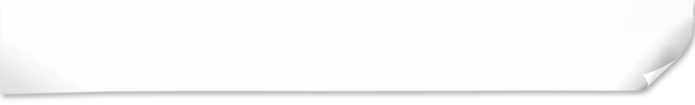
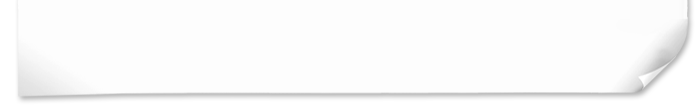
debug路由

Changed region(s): [[0.0, 0.6857, 0.9065, 0.9714], [0.9065, 0.0, 1.0, 0.8286]]

diff --git a/style/public.min.css b/style/public.min.css
@@ -1,1 +1,1 @@
-html{background-color:#5a93cf}html body{width:100%}html body .container{width:1045px;margin:0 auto;padding-top:68px;position:relative;overflow:hidden}html body .container .title{width:349px;height:391px;position:absolute;top:27px;left:-60px;background:url(../images/left_title.png);z-index:99}html body .container .title>h2{font-size:23.7px;color:#5a93d0;position:absolute;top:189px;left:74px}html body .container .title>h4{font-size:19px;color:#fff;position:absolute;left:133px;top:225px}html body .container .menu{position:absolute;background:url(../images/right_menu.png);width:359px;height:441px;top:130px;right:-60px;z-index:99}html body .container .flower{width:129px;height:132px;background:url(../images/flower.png);position:absolute;left:27px;top:380px}html body .container .block{width:213px;height:201px;background:url(../images/block.png);position:absolute;left:4px;top:610px;z-index:99}html body .container .nav{width:822px;height:59px;margin:0 auto;background:url(../images/nav_bg2.png) center;background-size:cover}html body .container .nav ul{width:100%;overflow:hidden}html body .container .nav ul li{float:left}html body .container .nav ul li>a{display:block;height:49px;line-height:49px;font-size:14px;color:#261501;padding:0 42px}html body .container .nav ul li:hover>a,html body .container .nav ul .active>a{font-weight:bolder;color:#5a93cf}html body .container .header{width:695px;height:89px;margin:0 auto;margin-top:70px;background:url(../images/header_bg.png) center;background-size:cover}html body .container .main{padding:0 86px;width:695px;margin:0 auto;background:url(../images/main_bg.png) center;position:relative}html body .container .main .breadcrumb{position:absolute;top:-108px;left:56px}html body .container .main .breadcrumb li{float:left;font-size:16px;color:#f2f2f2}html body .container .main .breadcrumb li a{font-size:16px;color:#f2f2f2;display:inline-block}html body .container .main .breadcrumb li a:hover{color:#ff6600}html body .container .main>h1{color:#5a93cf;font-size:36px;text-align:center;padding-bottom:20px}html body .container .main>h2{font-size:24px;text-align:center}html body .container .main>h3{font-size:16px;padding-bottom:13px}html body .container .main .dail{font-size:16px;line-height:28px;text-indent:2em;padding-bottom:13px}html body .container .main .img_box{text-align:center}html body .container .main .homelist{margin-top:80px}html body .container .main .homelist li a{font-size:24px;color:#111111;line-height:65px}html body .container .main .slist{margin-left:2em}html body .container .main .slist li a{font-size:20px;color:#C66209;line-height:32px}html body .container .main .slist li a:hover{text-decoration:underline}html body .container .main .footer_action{display:none}html body .container .footer{width:695px;height:105px;margin:0 auto;background:url(../images/footer_bg.png) center;margin-bottom:60px;position:relative;text-align:center}html body .container .footer .den{width:291px;height:243px;background:url(../images/den.png);position:absolute;top:-80px;right:-142px}html body .container .footer .action{margin-top:30px;display:inline-block}html body .container .footer .action li{float:left;background-color:#5a93cf;margin:0 15px;border-radius:0px 20px}html body .container .footer .action li a{display:block;width:80px;font-size:14px;line-height:26px;color:#f2f2f2}html body .container .footer .action li:hover{background-color:#C66209}html body .ball{position:absolute;top:635px;right:198px;margin:auto;width:50px;height:50px;background:#1f79d7;opacity:0.5;border-radius:50%;cursor:pointer;background-image:url(../images/action.png);background-position:center;background-size:55%;background-repeat:no-repeat;z-index:999}html body .ball .b1,html body .ball .b2,html body .ball .b3,html body .ball .b4{position:absolute;width:50px;height:50px;background:#c8e7f9;border:1px solid #c8e7f9;opacity:0;border-radius:50%;cursor:pointer;text-align:center}html body .ball .b1 img,html body .ball .b2 img,html body .ball .b3 img,html body .ball .b4 img{display:inline-block;width:20px;margin-top:10px}html body .ball .b1 p,html body .ball .b2 p,html body .ball .b3 p,html body .ball .b4 p{line-height:14px;font-size:12px;color:#222}html .pop{position:fixed;top:-1500px;left:0;right:0;bottom:0;margin:auto;padding:15px;width:400px;height:500px;border:1px solid #ccc;border-radius:10px;background-color:white}html .pop .pop-header{border-bottom:1px solid #5a93cf}html .pop .pop-header h3{line-height:35px}html .pop .pop-header span{position:absolute;top:0;bottom:0;right:20px;margin:auto;font-size:18px;cursor:pointer;margin-top:20px;color:#666}html .pop .pop-header span:hover{color:red}html .pop .pop-main .note ul{margin-top:10px;margin-bottom:10px;height:300px;overflow-y:scroll}html .pop .pop-main .note li{padding-top:10px;padding-bottom:10px;border-bottom:1px solid #ccc;font-size:12px;cursor:pointer}html .pop .pop-main .note li p{word-wrap:break-word;word-break:normal;overflow:hidden}html .pop .pop-main .note li p span{float:left;display:block}html .pop .pop-main .note li p span:first-child{text-indent:2em;width:300px}html .pop .pop-main .note li p span:last-child{width:50px;text-align:center;color:#5a93cf}html .pop .pop-main .note li p span:last-child:hover{color:red}html .pop .pop-main .note li div{overflow:hidden}html .pop .pop-main .note li div span{float:right;margin-right:20px}html .pop .pop-main .note li:hover{background-color:#dededd}html .pop .pop-main .note textarea{width:368px;height:80px;padding:10px}html .pop .pop-main .note button{border:none;float:right;padding:5px 15px;background-color:#5a93cf;cursor:pointer;border-radius:5px;color:white;font-size:12px}html .pop .pop-main .note button:hover{background-color:#2880dd}html .pop .pop-main .shuqian ul{margin-top:10px;margin-bottom:10px;height:420px;overflow-y:scroll}html .pop .pop-main .shuqian li{padding-top:10px;padding-bottom:10px;border-bottom:1px solid #ccc;font-size:12px;cursor:pointer}html .pop .pop-main .shuqian li p{word-wrap:break-word;word-break:normal;overflow:hidden}html .pop .pop-main .shuqian li p span{float:left;display:block}html .pop .pop-main .shuqian li p span:first-child{text-indent:2em;width:300px}html .pop .pop-main .shuqian li p span:last-child{width:50px;text-align:center;color:#5a93cf}html .pop .pop-main .shuqian li p span:last-child:hover{color:red}html .pop .pop-main .shuqian li p a:hover{color:#ffba00}html .pop .pop-main .shuqian li:hover{background-color:#dededd}html .pop .pop-main .pregress{padding-top:20px}html .pop .pop-main .pregress p{font-size:14px;line-height:40px}html .pop .pop-main .pregress p a{display:inline-block;color:#a31313}html .pop .pop-main .pregress p a:hover{color:#a50101}
+html{background-color:#5a93cf}html body{width:100%}html body .container{width:1045px;margin:0 auto;padding-top:68px;position:relative;overflow:hidden}html body .container .title{width:349px;height:391px;position:absolute;top:27px;left:-60px;background:url(../images/left_title.png);z-index:99}html body .container .title>h2{font-size:23.7px;color:#5a93d0;position:absolute;top:189px;left:74px}html body .container .title>h4{font-size:19px;color:#fff;position:absolute;left:133px;top:225px}html body .container .menu{position:absolute;background:url(../images/right_menu.png);width:359px;height:441px;top:130px;right:-60px;z-index:99}html body .container .flower{width:129px;height:132px;background:url(../images/flower.png);position:absolute;left:27px;top:380px}html body .container .block{width:213px;height:201px;background:url(../images/block.png);position:absolute;left:4px;top:610px;z-index:99}html body .container .nav{width:822px;height:59px;margin:0 auto;background:url(../images/nav_bg2.png) center;background-size:cover}html body .container .nav ul{width:100%;overflow:hidden}html body .container .nav ul li{float:left}html body .container .nav ul li>a{display:block;height:49px;line-height:49px;font-size:14px;color:#261501;padding:0 42px}html body .container .nav ul li:hover>a,html body .container .nav ul .active>a{font-weight:bolder;color:#5a93cf}html body .container .header{width:695px;height:89px;margin:0 auto;margin-top:70px;background:url(../images/header_bg.png) center;background-size:cover}html body .container .main{padding:0 86px;width:695px;margin:0 auto;background:url(../images/main_bg.png);background-size:100% auto;position:relative}html body .container .main .breadcrumb{position:absolute;top:-120px;left:56px}html body .container .main .breadcrumb li{float:left;font-size:16px;color:#f2f2f2}html body .container .main .breadcrumb li a{font-size:16px;color:#f2f2f2;display:inline-block}html body .container .main .breadcrumb li a:hover{color:#ff6600}html body .container .main>h1{color:#5a93cf;font-size:36px;text-align:center;padding-bottom:20px}html body .container .main>h2{font-size:24px;text-align:center}html body .container .main>h3{font-size:16px;padding-bottom:13px}html body .container .main .dail{font-size:16px;line-height:28px;text-indent:2em;padding-bottom:13px}html body .container .main .img_box{text-align:center}html body .container .main .homelist{margin-top:80px}html body .container .main .homelist li a{font-size:24px;color:#111111;line-height:65px}html body .container .main .slist{margin-left:2em}html body .container .main .slist li a{font-size:20px;color:#C66209;line-height:32px}html body .container .main .slist li a:hover{text-decoration:underline}html body .container .main .footer_action{display:none}html body .container .footer{width:695px;height:105px;margin:0 auto;background:url(../images/footer_bg.png) center;background-size:cover;margin-bottom:60px;position:relative;text-align:center}html body .container .footer .den{width:291px;height:243px;background:url(../images/den.png);position:absolute;top:-80px;right:-142px}html body .container .footer .action{margin-top:30px;display:inline-block}html body .container .footer .action li{float:left;background-color:#5a93cf;margin:0 15px;border-radius:0px 20px}html body .container .footer .action li a{display:block;width:80px;font-size:14px;line-height:26px;color:#f2f2f2}html body .container .footer .action li:hover{background-color:#C66209}html body .ball{position:absolute;top:635px;right:198px;margin:auto;width:50px;height:50px;background:#1f79d7;opacity:0.5;border-radius:50%;cursor:pointer;background-image:url(../images/action.png);background-position:center;background-size:55%;background-repeat:no-repeat;z-index:999}html body .ball .b1,html body .ball .b2,html body .ball .b3,html body .ball .b4{position:absolute;width:50px;height:50px;background:#c8e7f9;border:1px solid #c8e7f9;opacity:0;border-radius:50%;cursor:pointer;text-align:center}html body .ball .b1 img,html body .ball .b2 img,html body .ball .b3 img,html body .ball .b4 img{display:inline-block;width:20px;margin-top:10px}html body .ball .b1 p,html body .ball .b2 p,html body .ball .b3 p,html body .ball .b4 p{line-height:14px;font-size:12px;color:#222}html .pop{position:fixed;top:-1500px;left:0;right:0;bottom:0;margin:auto;padding:15px;width:400px;height:500px;border:1px solid #ccc;border-radius:10px;background-color:white}html .pop .pop-header{border-bottom:1px solid #5a93cf}html .pop .pop-header h3{line-height:35px}html .pop .pop-header span{position:absolute;top:0;bottom:0;right:20px;margin:auto;font-size:18px;cursor:pointer;margin-top:20px;color:#666}html .pop .pop-header span:hover{color:red}html .pop .pop-main .note ul{margin-top:10px;margin-bottom:10px;height:300px;overflow-y:scroll}html .pop .pop-main .note li{padding-top:10px;padding-bottom:10px;border-bottom:1px solid #ccc;font-size:12px;cursor:pointer}html .pop .pop-main .note li p{word-wrap:break-word;word-break:normal;overflow:hidden}html .pop .pop-main .note li p span{float:left;display:block}html .pop .pop-main .note li p span:first-child{text-indent:2em;width:300px}html .pop .pop-main .note li p span:last-child{width:50px;text-align:center;color:#5a93cf}html .pop .pop-main .note li p span:last-child:hover{color:red}html .pop .pop-main .note li div{overflow:hidden}html .pop .pop-main .note li div span{float:right;margin-right:20px}html .pop .pop-main .note li:hover{background-color:#dededd}html .pop .pop-main .note textarea{width:368px;height:80px;padding:10px}html .pop .pop-main .note button{border:none;float:right;padding:5px 15px;background-color:#5a93cf;cursor:pointer;border-radius:5px;color:white;font-size:12px}html .pop .pop-main .note button:hover{background-color:#2880dd}html .pop .pop-main .shuqian ul{margin-top:10px;margin-bottom:10px;height:420px;overflow-y:scroll}html .pop .pop-main .shuqian li{padding-top:10px;padding-bottom:10px;border-bottom:1px solid #ccc;font-size:12px;cursor:pointer}html .pop .pop-main .shuqian li p{word-wrap:break-word;word-break:normal;overflow:hidden}html .pop .pop-main .shuqian li p span{float:left;display:block}html .pop .pop-main .shuqian li p span:first-child{text-indent:2em;width:300px}html .pop .pop-main .shuqian li p span:last-child{width:50px;text-align:center;color:#5a93cf}html .pop .pop-main .shuqian li p span:last-child:hover{color:red}html .pop .pop-main .shuqian li p a:hover{color:#ffba00}html .pop .pop-main .shuqian li:hover{background-color:#dededd}html .pop .pop-main .pregress{padding-top:20px}html .pop .pop-main .pregress p{font-size:14px;line-height:40px}html .pop .pop-main .pregress p a{display:inline-block;color:#a31313}html .pop .pop-main .pregress p a:hover{color:#a50101}

diff --git a/js/ch01.js b/js/ch01.js
@@ -1,46 +1,87 @@
 $(function(){
+    
     load(chapterArr.c01);
-    (function(){
+    showPage();
+    (function () {
         var lock = true;
-        $('.ball').mouseover(function(e){
-            $(this).stop().animate({"opacity":.9});
+        $('.ball').mouseover(function (e) {
+            $(this).stop().animate({
+                "opacity": .9
+            });
             e.cancelBubble;
             e.stopPropagation();
-        }).mouseout(function(){
-            if(lock){
-                $(this).stop().animate({"opacity":.5});
+        }).mouseout(function () {
+            if (lock) {
+                $(this).stop().animate({
+                    "opacity": .5
+                });
             }
-        }).on('click',function(){
-            if(lock){
-                $('.b1').stop().animate({"opacity":1,"left":0,"top":-60});
-                $('.b2').stop().animate({"opacity":1,"left":0,"top":-120});
-                $('.b3').stop().animate({"opacity":1,"left":0,"bottom":-60});
-                $('.b4').stop().animate({"opacity":1,"left":0,"bottom":-120});
-            }else{
-                $('.b1').stop().animate({"opacity":0,"left":0,"top":0})
-                $('.b2').stop().animate({"opacity":0,"right":0,"top":0})
-                $('.b3').stop().animate({"opacity":0,"left":0,"bottom":0})
-                $('.b4').stop().animate({"opacity":0,"right":0,"bottom":0})
+        }).on('click', function () {
+            if (lock) {
+                $('.b1').stop().animate({
+                    "opacity": 1,
+                    "left": 0,
+                    "top": -60
+                });
+                $('.b2').stop().animate({
+                    "opacity": 1,
+                    "left": 0,
+                    "top": -120
+                });
+                $('.b3').stop().animate({
+                    "opacity": 1,
+                    "left": 0,
+                    "bottom": -60
+                });
+                $('.b4').stop().animate({
+                    "opacity": 1,
+                    "left": 0,
+                    "bottom": -120
+                });
+            } else {
+                $('.b1').stop().animate({
+                    "opacity": 0,
+                    "left": 0,
+                    "top": 0
+                })
+                $('.b2').stop().animate({
+                    "opacity": 0,
+                    "right": 0,
+                    "top": 0
+                })
+                $('.b3').stop().animate({
+                    "opacity": 0,
+                    "left": 0,
+                    "bottom": 0
+                })
+                $('.b4').stop().animate({
+                    "opacity": 0,
+                    "right": 0,
+                    "bottom": 0
+                })
             }
             lock = !lock;
         });
-        window.onscroll  = function(event){
-            var top = 577+$(this).scrollTop();
-            $('.ball').animate({'top':top},10,'swing')
+        window.onscroll = function (event) {
+            var top = 577 + $(this).scrollTop();
+            $('.ball').animate({
+                'top': top
+            }, 10, 'swing')
         }
     })();
     // 添加功能到footer
-    (function(){
+    setTimeout(function(){
         var footer_action = $('.footer_action').html();
         $('.footer>.action').html(footer_action);
-    })();
+    },0);
     // 弹窗
-    (function(){
+    (function () {
         //设置笔记内容
         var noteText = "";
         //模拟笔记内容数据
         var note_text = '<li><p><span>ALSDFLWEOPJMGALljkaldfjlpkpfksfslflassdjljasfljdfjwfjjgaljflasjfljl</span><span>删除</span></p><div><span>2017-8-18</span></div></li><li><p><span>ALSDFLWEOPJMGALljkaldfjlpkpfksfslflassdjljasfljdfjwfjjgaljflasjfljl</span><span>删除</span></p><div><span>2017-8-18</span></div></li>';
-        function setNote(text){
+
+        function setNote(text) {
             noteText = '<div class="note"><ul>' + text + '</ul><textarea></textarea><div><button type="button">添加</button></div></div>';
         }
         setNote(note_text);
@@ -49,7 +90,8 @@ $(function(){
         var shuqianText = "";
         //模拟书签内容数据
         var shuqian_text = '<li><p><span><a href="###">第三章 第二节 XXXXXXXXX</a></span><span>删除</span></p></li>';
-        function setShuqian(text){
+
+        function setShuqian(text) {
             shuqianText = '<div class="shuqian"><ul>' + text + '</ul></div>';
         }
         setShuqian(shuqian_text);
@@ -58,38 +100,47 @@ $(function(){
         var pregress = {};
         pregressText = "";
         var studyTime = 0.5; //模拟平台传入学习时间数据
-        pregress.lase_page = ['###','第三章 第二节 XXXXXXXXX'];
+        pregress.lase_page = ['###', '第三章 第二节 XXXXXXXXX'];
         pregress.study = 0;
-        pregress.studyTime = studyTime > 1?studyTime:"< 1";
-        function setPregress(text){
-            pregressText = '<div class="pregress"><p>学习进度：<a href="'+ text.lase_page[0] +'">'+ text.lase_page[1] +'</a></p><p>学习完成度：'+ text.study +'%</p><p>学习时长：'+ text.studyTime +'小时</p>'
+        pregress.studyTime = studyTime > 1 ? studyTime : "< 1";
+
+        function setPregress(text) {
+            pregressText = '<div class="pregress"><p>学习进度：<a href="' + text.lase_page[0] + '">' + text.lase_page[1] + '</a></p><p>学习完成度：' + text.study + '%</p><p>学习时长：' + text.studyTime + '小时</p>'
         }
         setPregress(pregress);
         //存储弹窗内容
         var popArr = {
-            note : noteText,
-            shuqian : shuqianText,
-            pregress : pregressText
+            note: noteText,
+            shuqian: shuqianText,
+            pregress: pregressText
         }
         //弹窗动画
-        $('.b1').on("click",function(){
+        $('.b1').on("click", function () {
             $('.pop .pop-main').html(popArr.note);
             $('.pop .pop-header h3').text("笔记");
-            $('.pop').stop().animate({"top":0});
+            $('.pop').stop().animate({
+                "top": 0
+            });
         })
-        $('.b2').on("click",function(){
+        $('.b2').on("click", function () {
             $('.pop .pop-main').html(popArr.shuqian);
             $('.pop .pop-header h3').text("书签");
-            $('.pop').stop().animate({"top":0});
+            $('.pop').stop().animate({
+                "top": 0
+            });
         })
-        $('.b3').on("click",function(){
+        $('.b3').on("click", function () {
             $('.pop .pop-main').html(popArr.pregress);
             $('.pop .pop-header h3').text("进度");
-            $('.pop').stop().animate({"top":0});
+            $('.pop').stop().animate({
+                "top": 0
+            });
         })
         //关闭弹窗
-        $('.pop .pop-header span').on('click',function(){
-            $('.pop').stop().animate({"top":'-1500px'});
+        $('.pop .pop-header span').on('click', function () {
+            $('.pop').stop().animate({
+                "top": '-1500px'
+            });
         })
-    })();
+    })(); //弹窗结束
 });

diff --git a/template/chapter01/index.html b/template/chapter01/index.html
@@ -18,34 +18,7 @@
         <div class="menu"></div>
         <div class="flower"></div>
         <div class="block"></div>
-        <div class="main">
-            <ul class="breadcrumb">
-                <li>您当前的位置：</li>
-                <li><a href="#">课程内容</a>&nbsp;&nbsp;>&nbsp;&nbsp;</li>
-                <li><a href="#">第一章</a>&nbsp;&nbsp;>&nbsp;&nbsp;</li>
-                <li>本章导读</li>
-            </ul>
-            <h1>幼儿创造性思维能力培训研究</h1>
-            <h2>第一章&nbsp;&nbsp;幼儿创造性思维概述</h2>
-            <h3>本章导读:</h3>
-            <p class="dail">
-                21世纪是创新的世纪，树立全民族的创新意识，建立国家教育创新体系已经成为人们的共识。教育的首要目的就是释放学生的创造力，幼儿教育作为国民基础教育的基础，在人接受教育和不断发展过程中具有重要地位。因此，本章节的主要目的是让学者了解思维、创造性思维的概念及其特点，并了解现在幼儿创造性思维培养的现状、存在的问题及解决途径，并将其运用到具体的教育教学之中，促进幼儿创造性思维水平的提高。
-            </p>
-            <h3>教学内容：</h3>
-            <ul class="slist">
-                <li><a href="#s0100" onclick="gotoPage('./pages/s0100.html')">第一节&nbsp;&nbsp;创造性思维及其内涵</a></li>
-                <li><a href="#">第二节&nbsp;&nbsp;幼儿思维能力发展的特点</a></li>
-                <li><a href="#">第三节&nbsp;&nbsp;幼儿创造性思维培养的重要性</a></li>
-                <li><a href="#">第四节&nbsp;&nbsp;幼儿创造性思维培养的现状及存在的问题</a></li>
-                <li><a href="#">第五节&nbsp;&nbsp;幼儿创造性思维能力培养的途径</a></li>
-            </ul>
-            <ul class="footer_action">
-                <li><a href="#">上一节</a></li>
-                <li><a href="#">章节目录</a></li>
-                <li><a href="#">下一节</a></li>
-                <li><a href="#">加入书签</a></li>
-            </ul>
-        </div>
+        <div class="main"></div>
     </div>
     <script type="text/javascript" src="../../js/jquery.js"></script>
     <script type="text/javascript" src="../../js/main.js"></script>

diff --git a/js/main.js b/js/main.js
@@ -1,5 +1,10 @@
 $(function(){
     $(".container .main").before(domJSON.header).after(domJSON.footer);
+    // 判断浏览器宽度改变主体样式适应
+    (function(){
+        resizeW();
+        window.onresize = resizeW;
+    })();
 });
 
 var domJSON = {
@@ -11,15 +16,56 @@ var domJSON = {
 var chapterArr = {
     c01 : [domJSON.ball,domJSON.pop]
 }
-
+// 控制自适应宽度
+function resizeW(){
+    var dw = $(window).width();
+    if(dw > 1440){
+        $('.container').css('width','1440px');
+        $(".container .main").css('width','1099px');
+        $(".container .header").css('width','1100px');
+        $(".container .footer").css('width','1099px');
+    }else if(dw > 1366){
+        $('.container').css('width','1366px');
+        $(".container .main").css('width','1000px');
+        $(".container .header").css('width','1001px');
+        $(".container .footer").css('width','1001px');
+    }else if(dw > 1280){
+        $('.container').css('width','1280px');
+        $(".container .main").css('width','900px');
+        $(".container .header").css('width','901px');
+        $(".container .footer").css('width','901px');
+    }else{
+        $('.container').css('width','1045px');
+        $(".container .main").css('width','695px');
+        $(".container .header").css('width','695px');
+        $(".container .footer").css('width','695px');
+    }
+}
 function load(arr){
     for(var i = 0; i<arr.length; i++){
         $(".container .main").after(arr[i]);
     }
 }
+// var nowTime = new Date().toUTCString();
+// document.cookie = "chapterUrl=; expires="+nowTime;
+// console.error(document.cookie);
+if(document.cookie.split(" ")[0].indexOf('lock') < 0){
+    document.cookie = "chapterUrl=./pages/home.html; path=/";
+}
+function getChapterUrl(){
+    var chapterUrl = document.cookie.split(" ")[0].split("=")[1].replace(';','');
+    return chapterUrl;
+}
 
-function gotoPage(url){
-    $.get(url,function(data,status){
+function showPage(){
+    console.log(getChapterUrl());
+    $.get(getChapterUrl(),function(data,status){
         $(".container .main").html(data);
     })
+}
+
+//点击跳转事件
+function gotoPage(url){
+    document.cookie = "chapterUrl="+url+"?lock; path=/";
+    showPage();
 }

diff --git a/template/chapter01/pages/home.html b/template/chapter01/pages/home.html
@@ -1,0 +1,26 @@
+<ul class="breadcrumb">
+    <li>您当前的位置：</li>
+    <li><a href="#">课程内容</a>&nbsp;&nbsp;>&nbsp;&nbsp;</li>
+    <li><a href="#">第一章</a>&nbsp;&nbsp;>&nbsp;&nbsp;</li>
+    <li>本章导读</li>
+</ul>
+<h1>幼儿创造性思维能力培训研究</h1>
+<h2>第一章&nbsp;&nbsp;幼儿创造性思维概述</h2>
+<h3>本章导读:</h3>
+<p class="dail">
+    21世纪是创新的世纪，树立全民族的创新意识，建立国家教育创新体系已经成为人们的共识。教育的首要目的就是释放学生的创造力，幼儿教育作为国民基础教育的基础，在人接受教育和不断发展过程中具有重要地位。因此，本章节的主要目的是让学者了解思维、创造性思维的概念及其特点，并了解现在幼儿创造性思维培养的现状、存在的问题及解决途径，并将其运用到具体的教育教学之中，促进幼儿创造性思维水平的提高。
+</p>
+<h3>教学内容：</h3>
+<ul class="slist">
+    <li><a href="#s0100" onclick="gotoPage('./pages/s0100.html')">第一节&nbsp;&nbsp;创造性思维及其内涵</a></li>
+    <li><a href="#">第二节&nbsp;&nbsp;幼儿思维能力发展的特点</a></li>
+    <li><a href="#">第三节&nbsp;&nbsp;幼儿创造性思维培养的重要性</a></li>
+    <li><a href="#">第四节&nbsp;&nbsp;幼儿创造性思维培养的现状及存在的问题</a></li>
+    <li><a href="#">第五节&nbsp;&nbsp;幼儿创造性思维能力培养的途径</a></li>
+</ul>
+<ul class="footer_action">
+    <li><a href="#">上一节</a></li>
+    <li><a href="#">章节目录</a></li>
+    <li><a href="#">下一节</a></li>
+    <li><a href="#">加入书签</a></li>
+</ul>

diff --git a/style/public.scss b/style/public.scss
@@ -96,13 +96,15 @@ html {
             }
             .main {
                 padding: 0 86px;
+                // width: 75%;
                 width: 695px;
                 margin: 0 auto;
-                background: url(../images/main_bg.png) center;
+                background: url(../images/main_bg.png);
+                background-size: 100% auto;
                 position: relative;
                 .breadcrumb{
                     position: absolute;
-                    top: -108px;
+                    top: -120px;
                     left: 56px;
                     li{
                         float: left;
@@ -173,6 +175,7 @@ html {
                 height: 105px;
                 margin: 0 auto;
                 background: url(../images/footer_bg.png) center;
+                background-size: cover;
                 margin-bottom: 60px;
                 position: relative;
                 text-align: center;

diff --git a/style/public.css b/style/public.css
@@ -115,13 +115,14 @@ html body .container .main {
   padding: 0 86px;
   width: 695px;
   margin: 0 auto;
-  background: url(../images/main_bg.png) center;
+  background: url(../images/main_bg.png);
+  background-size: 100% auto;
   position: relative;
 }
 
 html body .container .main .breadcrumb {
   position: absolute;
-  top: -108px;
+  top: -120px;
   left: 56px;
 }
 
@@ -202,6 +203,7 @@ html body .container .footer {
   height: 105px;
   margin: 0 auto;
   background: url(../images/footer_bg.png) center;
+  background-size: cover;
   margin-bottom: 60px;
   position: relative;
   text-align: center;

diff --git a/index.html b/index.html
@@ -35,7 +35,9 @@
 
     <script type="text/javascript" src="js/jquery.js"></script>
     <script type="text/javascript" src="js/main.js"></script>
-    
+    <script>
+        document.cookie = "chapterUrl=./pages/home.html; path=/";
+    </script>
 </body>
 
 </html>
